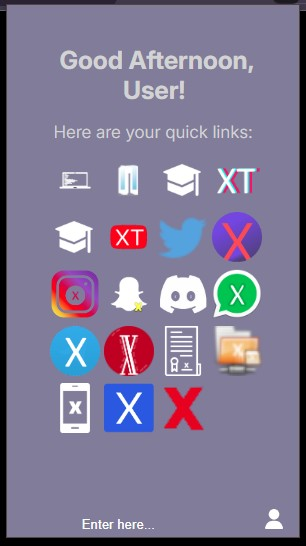
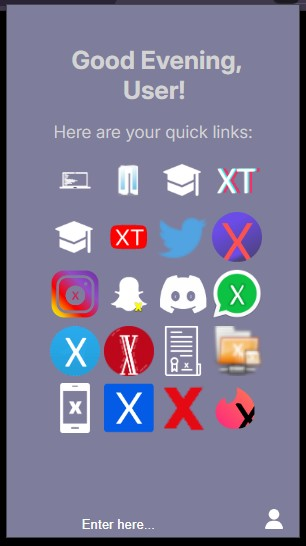
Added Link to Include Xinder
This commit is made to include and add xinder to the roster of Xiotim Projects.

diff --git a/Unpacked/xLinks/index.html b/Unpacked/xLinks/index.html
@@ -169,13 +169,17 @@
                                     <th>
                                         <a href="https://l-xdt.github.io/phone/" target="_blank"><img src="https://i.imgur.com/3VIYJbC.png"></a>
                                     </th>
+
 									<th>
 									<a href="https://l-xdt.github.io/linkedx/" target="_blank"><img src="https://imgur.com/AeTqpgb.png"></a>
+									</th>                                    
+									<th>
+									<a href="https://l-xdt.github.io/xflix/" target="_blank"><img src="https://i.imgur.com/le6WCCt.png"></a>
 									</th>
-                                    <th>
-                                        <a href="https://l-xdt.github.io/xflix/" target="_blank"><img src="https://i.imgur.com/le6WCCt.png"></a>
-                                    </th>
-                                    </tr>
+         <th>
+           <a href="http://l-xdt.github.io/xinder/" target="_blank"><img src="https://i.imgur.com/srht9BE.png"></a>
+       </th>
+</tr>
         </table>
     </div>
     <div class="change_user">
